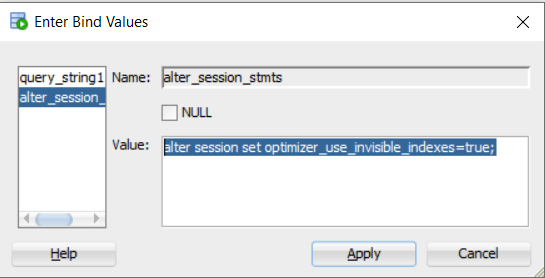
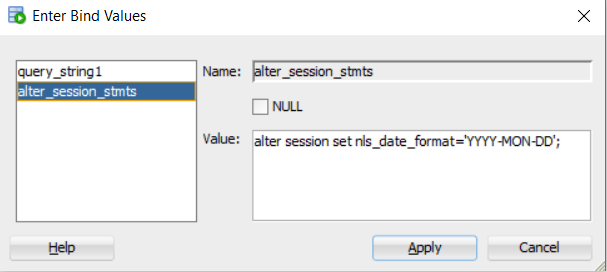
Swldev changes

Changed region(s): [[0.0, 0.0, 1.0, 1.0], [0.8422, 0.8824, 0.9358, 0.9412], [0.0624, 0.8824, 0.156, 0.9412]]

diff --git a/In_memory/sqlDev/InmemoryPOC.md b/In_memory/sqlDev/InmemoryPOC.md
@@ -34,10 +34,10 @@ That is it. You have installed the In-Memory POC tool. Next, we need to connect 
     ![](images/SSBconnection.png)
     Click the "Test" button and if successful click "Save" to save the connection alias.
 
-5. Expand the "User Defined report" --> "InMemory POC tool" and click "Load Runstats" and choose the connection you just created. When you run it for the first time, you will get the following message displayed.
+5. Expand the "User Defined Report" --> "In_Memory POC tool" and click "Load Runstats" and choose the connection you just created. When you run it for the first time, you will get the following message displayed.
 
  ````
-  As a sys user please grant access to following tables and run again
+  As the sys user please grant access to following tables and run again
   grant select on SYS.V_$STATNAME to SSB;
   grant select on SYS.V_$MYSTAT to SSB;
   grant select on SYS.V_$TIMER to SSB;
@@ -49,7 +49,8 @@ That is it. You have installed the In-Memory POC tool. Next, we need to connect 
   ORA-24344: success with compilation error
  ````
 
-To add privileges, open a terminal window and start  sql\*plus. Copy and run the following.
+To run these grant statements, open a terminal window and start  sql\*plus. Copy and run the following.
+
 ````
   <copy>
   connect / as sysdba
@@ -61,7 +62,7 @@ To add privileges, open a terminal window and start  sql\*plus. Copy and run the
   grant select on SYS.V_$SESSTAT to SSB;
   </copy>
 ````
-After granting the privileges, re-run the "Load Runstats"
+After granting the privileges, re-run the "Load Runstats" report.
 After about 10 seconds, you should get the following display.
 
 ````
@@ -71,18 +72,20 @@ After about 10 seconds, you should get the following display.
   Package body recompiled in user SSB
   You are ready to run the report
 ````
-At this point, you have successfully imported the user defined report and installed the package.
+You have successfully imported the user defined report.
 
-## Verify the objects are Loaded.
+## Report 1 : View the objects loaded In-Memory.
+
 Click on the report "in-memory-objects"
-This displays the tables that have the property INMEMORY setup and loaded into In-Memory pool. In our test ensure you see LINEORDER,PART,CUSTOMER,DATE_DIM,SUPPLIER. If there are not show here, you can run the report "Load all inmemory tables".
+This displays the tables that are loaded into the In-Memory pool. You should see LINEORDER,PART,CUSTOMER,DATE_DIM and  SUPPLIER. If you don't see all of the above objects, ( they may not all have been populated yet ), run the "Load all inmemory tables" report to force load all the missing tables.
 
 ![](images/objectSizeBar.png)
 
-The chart shows the space it used in In-Memory compared to space occupied in buffer. Notice, that space in In-Memory is less than in buffer. Further, due to various compression levels, you could tune the compression level to fill the pool more economically.
+The above chart shows space used per table In-Memory, compared to space on disk. Notice, that space In-Memory is less than on disk due to default In-Memory compression.
 
-## Run SQL Query
-Now that the tool is installed, Click on "In-Memory Query vs  Buffer Cache".
+## Report 2 : Run In-Memory Query vs  Buffer Cache.
+
+Click on "In-Memory Query vs  Buffer Cache".
 In the popup , enter the following query to see the performance difference, SQL Plan and stats.
 
 ````
@@ -101,7 +104,8 @@ and lo_orderpriority = '5-LOW'; </copy>
 ![](images/enterQuery.png)
  Click "Apply"
 
- We will see the tool display the following .
+ The tool will display the following.
+
  ````
      query string is :
     select
@@ -247,44 +251,46 @@ and lo_orderpriority = '5-LOW'; </copy>
 
  Now look at the relevant DB stats to see the In-Memory optimizations.
 
+## Report 3 : Run In-Memory Query vs  Buffer Cache with custom session parameters.
 
-Some sql queries will need to set session parameters like Parallel Degree, Hint like invisible indexes, optimizer tuning parameters and NLS date formats. We already tested one query by enabling invisible index in our test. We can now run it again in Sql Developer.
+Some sql queries might need to mofify session parameters like Parallel Degree, NLS date formats, HINTS, tuning parameters, etc.  In Lab 2, we modified the session parameter invisible index. We can now run this scenario again in Sql Developer.
 
-Click and open "InMemory vs Buffer with Session Parameter" enter the query_string ..
+Click and open "InMemory vs Buffer with Session Parameter" enter the query_string.
+
 ````
 <copy>
-Select  /* Demo  */ lo_orderkey, lo_custkey, lo_revenue
-From    LINEORDER Where   lo_orderkey = 5000000;
+ select  * from user_tables where last_analyzed >  '2020-JAN-01';
 </copy>
 ````
 ![](images/query_string.jpg)
 
+Now we run this sql report without any session information, it will error out. To prevent this, you will either alter the sql and have to_date syntax or change the NLS_DATE_FORMAT. changing the session parameter is better as it would not change the SQL_ID of the query you are running.
 
 Next click in the "alter\_session\_stmt" and enter the session information.
 
 ````
 <copy>
- alter session set optimizer_use_invisible_indexes=true;
+alter session set nls_date_format='YYYY-MON-DD';
 </copy>
 ````
 
 ![](images/Altersession.png)
 
-From the report, we observed that, when we have a favorable index, the optimizer choose "index Range Scan" over full tablespace even when In-Memory is enabled. This is the same result we observed in Lab 03. Step 4-5.
+From the report, we observed that, when we have a favorable index, the optimizer choose "index Range Scan" over full tablespace even when In-Memory is enabled. This is the same result we observed in Lab 02. Step 4-5.
 
 Next we can see other useful reports which could help during a POC.
 
 
-## Top InmemorySQL report
+##  Report 4 : Top InmemorySQL report
 
 
 ![](images/topSQLwithInMemory.png)
 
-You can click on TopSqLInMemory report. The report show top few sql queries which ran InMemory atleast once. Since the tool runs the SQL once InMemory and once without it, you will find average execution time for all plans and execution times.
+You can click on 'Top Sqತ InMemory' report. The report show top sql queries which has run In-Memory atleast once. The chart will display all the distinct plan and elapsed time for sql in buffer as well, you see the average execution time for all plans and execution times which is very useful while doing a POC to compare the performance benifit of In-Memory.
 
-## Approximate Query Processing and InMemory.
+## Approximate Query Processing and In-Memory.
 
-While InMemory is highly efficient in query filtering, min-max pruning and InMemory indexing, the query can further improve performance using "Approximate Query Processing" as a complimentry feature. They are features to improve performance of sort operations like DISTINCT, RANP, PERCENTILE, MEDIAN . These operations happen in the Process Global Area (PGA) of a user sessions. Since 12c, oracle has "approximate query processing" features that can make sorting operations faster but can be 95% or more accurate. For more information about this feature check out the  **[documentation.](https://docs.oracle.com/en/database/oracle/oracle-database/19/tgsql/query-optimizer-concepts.html#GUID-6273DFAC-7C4D-4540-AE11-B6973F237323)**
+While InMemory is highly efficient in query filtering, min-max pruning and InMemory indexing, the query can further improve performance using "Approximate Query Processing" as a complimentary feature since 12c. They are features to improve performance of sort operations like DISTINCT, RANK, PERCENTILE, MEDIAN . These operations happen in the Process Global Area (PGA) of a user sessions. Since 12c, oracle has "approximate query processing" features that can make sorting operations faster but can be 95% or more accurate. For more information about this feature check out the  **[documentation.](https://docs.oracle.com/en/database/oracle/oracle-database/19/tgsql/query-optimizer-concepts.html#GUID-6273DFAC-7C4D-4540-AE11-B6973F237323)**
 This type of approximation is useful in certain Dashboards, BI applications where data needs to be real time, but small variance in dataset does not distort the visualizations of data.
 
 In 12.2 there are several APPROX functions introduced:
@@ -357,7 +363,7 @@ Run #  02 ran in 56.69  seconds
 ````
 Observe that the plan has HASH GROUP BY APPROX instead of "SORT GROUP BY"
 And the InMemory query tool about 28 seconds which is lesser than the previous InMemory runs.
-This feature also speeds up In Buffer runs too.
+This feature also speeds up In Buffer runs too. This feature is useful in BI repoers, when we need to build visualization, and summation reports where 95-99% accuracy of data does not alter the overall information convayed.   
 
 ## InMemory Materialized Views and Query Rewrite.
 
@@ -427,4 +433,4 @@ For more information about this, check out Oracle **[documentation.](https://doc
 
 ## Result Caching and InMemory
 
-We saw that materialized views can rewrite any SQL queries that use the underlying join condition or aggregation, Result Caching is a layer above this. This can save the result at a SQL statement level and for each bind value.  This can run over MATERIALIZED views or just over Tables. While it is not part of InMemory workshop, it is none the less one of the features that can improve performance of BI reports and dashboards type of applications.
+We saw that materialized views can rewrite any SQL queries that use the underlying join condition or aggregation. Result Caching is a layer above this. This can save the result at a SQL statement level and for each bind value.  This can run over MATERIALIZED views or just over Tables. While it is not part of InMemory workshop, it is none the less one of the features that can improve performance of BI reports and dashboards type of applications. For more information check out the **[documentation.](https://docs.oracle.com/en/database/oracle/oracle-database/19/tgdba/tuning-result-cache.html#GUID-FA30CC32-17AB-477A-9E4C-B47BFE0968A1)**. 
